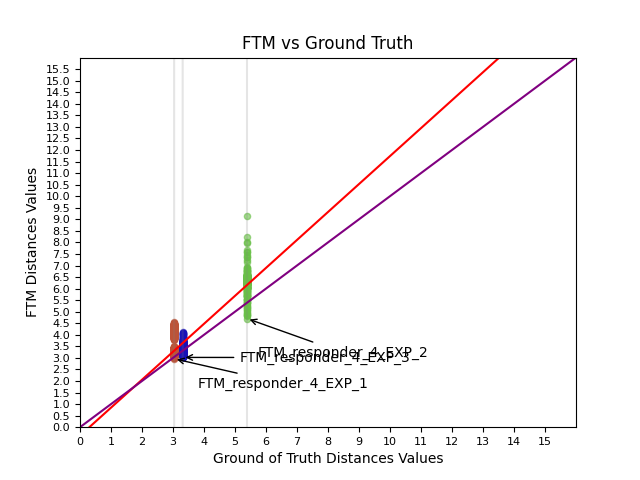
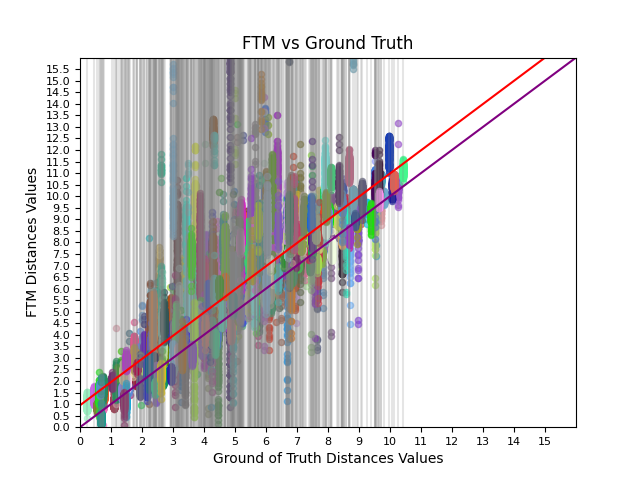
manage to convert some str to flaot

diff --git a/main.py b/main.py
@@ -132,8 +132,8 @@ class TeseWindow(tk.Tk):
                         rect1_x1, rect1_y1 = self.ap_locations_coordinate[ap]
                         rect1_x1 = rect1_x1 / 100
                         rect1_y1 = rect1_y1 / 100
-                        rect2_x1 = exp_x["xCoordinate"]
-                        rect2_y1 = exp_x["yCoordinate"]
+                        rect2_x1 = float(exp_x["xCoordinate"].replace(',','.'))
+                        rect2_y1 = float(exp_x["yCoordinate"].replace(',','.'))
 
                         distance = math.sqrt((rect1_x1 - rect2_x1) ** 2 + (rect1_y1 - rect2_y1) ** 2)
 
@@ -148,11 +148,12 @@ class TeseWindow(tk.Tk):
                             xmin = (data_x[0])
                             ymin = min(data_y)
 
-                            plt.annotate(f'{ap}_{exp}',
+                            '''plt.annotate(f'{ap}_{exp}',
                                          xy=(xmin, ymin), xycoords='data',
                                          xytext=(xmin + 1 + random_float, ymin - 1 + random_float), textcoords='data',
                                          arrowprops=dict(arrowstyle="->",
                                                  connectionstyle="arc3"))
+                            '''
         if(self.must_include_LMS_line.get()):
             # Define the initial guess for the parameters
             params0 = [1, 1]
@@ -278,8 +279,8 @@ class TeseWindow(tk.Tk):
         self.canvas.delete("all")
         self.draw_aps()
         self.create_grid(10, 6)
-        x = int(float(x_coordinate * 100))
-        y = int(float(y_coordinate * 100))
+        x = int(float(x_coordinate.replace(',','.')) * 100)
+        y = int(float(y_coordinate.replace(',','.')) * 100)
         self.mobile_location_id_rect = self.canvas.create_rectangle(x, y, x + 10, y + 10, fill="blue")
         self.draw_distances()
 
